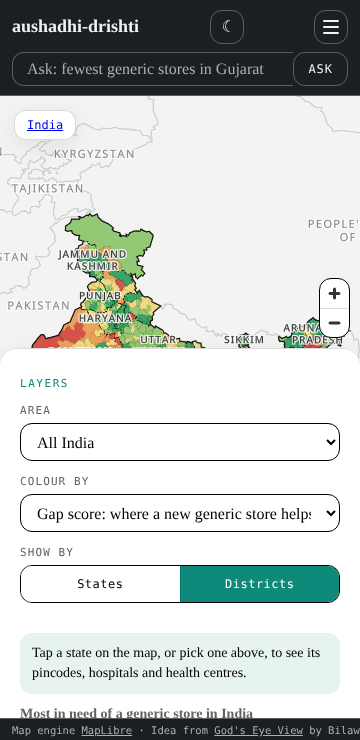
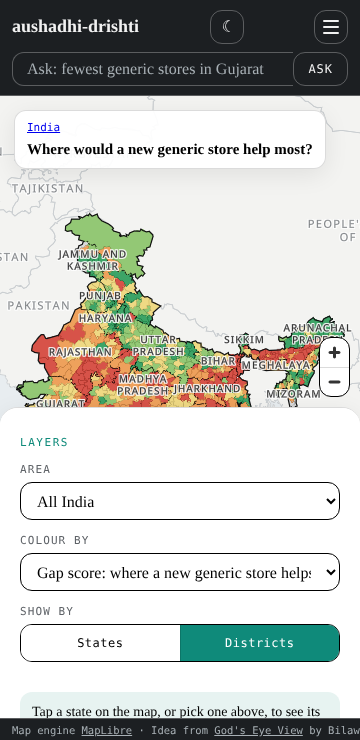
Version 0.9: news-style title card and sources, legend fixes, phone layout, plain guide to the code
Claude-Session: https://claude.ai/code/session_017Z6LKiBaxgz5KRqdbDSJ2V

diff --git a/drishti/src/layers/index.js b/drishti/src/layers/index.js
@@ -13,6 +13,7 @@ import { addCredit } from '../credits.js';
 import { districtDetail, pincodeDetail } from '../details.js';
 import { rankingHtml } from '../insights.js';
 import { setupMedicines } from '../medicine.js';
+import { aboutMetric } from '../metrics.js';
 import { resetView, fitTo } from '../map.js';
 
 const EMPTY = { jak: [], pharmacy: [], hospital: [], gov: [] };
@@ -22,7 +23,7 @@ export async function registerLayers(map, ui) {
   const meta = await loadJSON('meta.json');
   await addBasemap(map);
   const districts = await addDistricts(map, ui);
-  const pincodes = pincodeLayer(map);
+  const pincodes = pincodeLayer(map, ui);
   const states = await addStates(map, ui);
   let level = 'district'; // 'state', 'district' or 'pincode'
   const stateBySlug = new Map(meta.states.map((s) => [s.slug, s]));
@@ -79,11 +80,19 @@ export async function registerLayers(map, ui) {
   const metricSel = $('#metric');
   const statePick = $('#state-pick');
 
-  function crumbs(district) {
+  // The title card on the map: where you are, a plain headline, one line of context.
+  let openName = null;
+  function crumbs(district = openName) {
+    openName = district;
     const parts = [`<button type="button" data-go="india">India</button>`];
     if (current) parts.push(`<button type="button" data-go="state">${esc(current.name)}</button>`);
     if (district) parts.push(`<span>${esc(district)}</span>`);
-    ui.crumbs.innerHTML = parts.join('<i>/</i>');
+    const a = aboutMetric(level === 'pincode' ? 'outlets_per_10k' : metricSel.value);
+    const by = { state: 'By state', district: 'By district', pincode: 'By pincode' }[level];
+    const title = level === 'pincode' ? 'Where are the medicine outlets?' : a.title;
+    ui.crumbs.innerHTML = `<div class="path">${parts.join('<i>/</i>')}</div>
+      <h1>${esc(title)}</h1>
+      <p>${esc(by)}${current ? `, ${esc(current.name)}` : ', India'}. ${esc(level === 'pincode' ? 'Kendras plus mapped pharmacies' : a.sub)}</p>`;
   }
 
   function setLevel(l) {
@@ -95,6 +104,7 @@ export async function registerLayers(map, ui) {
     if (l === 'state') states.paint(metricSel.value);
     else districts.paint(metricSel.value);
     drawRanking();
+    crumbs();
   }
 
   function drawRanking() {
@@ -228,7 +238,11 @@ export async function registerLayers(map, ui) {
     if (go === 'state' && current) pickState(current.slug);
   });
   metricSel.value = districts.metric;
-  metricSel.addEventListener('change', () => (level === 'state' ? states.paint(metricSel.value) : districts.paint(metricSel.value)));
+  metricSel.addEventListener('change', () => {
+    if (level === 'state') states.paint(metricSel.value);
+    else districts.paint(metricSel.value);
+    crumbs();
+  });
   ui.layerList.querySelectorAll('button[data-level]').forEach((b) => b.addEventListener('click', () => setLevel(b.dataset.level)));
   statePick.addEventListener('change', () => pickState(statePick.value));
   ui.layerList.querySelectorAll('input[data-layer]').forEach((box) => {

diff --git a/drishti/src/layers/districts.js b/drishti/src/layers/districts.js
@@ -1,7 +1,7 @@
 // District shapes, coloured by the chosen measure. Tap or click a district
 // for details.
 import { loadJSON } from '../data.js';
-import { METRICS, metricById } from '../metrics.js';
+import { METRICS, metricById, aboutMetric } from '../metrics.js';
 import { esc } from '../ui.js';
 import { mapColors, onThemeChange } from '../theme.js';
 import { BEFORE } from './basemap.js';
@@ -44,6 +44,7 @@ export async function addDistricts(map, ui) {
   let current = 'gap_score';
   let focus = null;
   let selected = null;
+  let visible = true; // only the layer on screen draws the legend
 
   map.addLayer({ id: 'districts-fill', type: 'fill', source: 'districts', paint: { 'fill-color': fillColor(c.scale, c), 'fill-opacity': 0.92 } }, BEFORE);
   map.addLayer({ id: 'districts-line', type: 'line', source: 'districts', paint: { 'line-color': c.districtLine, 'line-width': ['interpolate', ['linear'], ['zoom'], 4, 0.3, 8, 1] } }, BEFORE);
@@ -72,7 +73,7 @@ export async function addDistricts(map, ui) {
       map.setFeatureState({ source: 'districts', id: p.lgd }, { cls: classOf(m.get(p), breaks), dim: !inView(p) });
     }
     map.setPaintProperty('districts-fill', 'fill-color', fillColor(pal, c));
-    drawLegend(ui.legend, m, vals, breaks, pal);
+    if (visible) drawLegend(ui.legend, { ...m, source: aboutMetric(m.id).source }, vals, breaks, pal);
   }
 
   // Hover outline (mouse only).
@@ -118,6 +119,7 @@ export async function addDistricts(map, ui) {
       if (lgd != null) map.setFeatureState({ source: 'districts', id: lgd }, { selected: true });
     },
     setVisible(on) {
+      visible = on;
       for (const id of ['districts-fill', 'districts-line']) map.setLayoutProperty(id, 'visibility', on ? 'visible' : 'none');
     },
   };
@@ -135,7 +137,7 @@ export function drawLegend(el, m, vals, breaks, pal) {
     <div class="ramp">${pal.map((col, i) => `<span style="background:${col}" title="${esc(m.fmt(edges[i]))} to ${esc(m.fmt(edges[i + 1]))}"></span>`).join('')}</div>
     <div class="ends"><span>${esc(m.fmt(edges[0]))}</span><span>${esc(m.fmt(edges[edges.length - 1]))}</span></div>
     <div class="key"><span><i style="background:${pal[m.worse === 'low' ? 4 : 0]}"></i>${esc(m.goodLabel || 'Well served')}</span><span><i style="background:${pal[m.worse === 'low' ? 0 : 4]}"></i>${esc(m.badLabel || 'Underserved')}</span><span><i class="nodata"></i>No data</span></div>
-    ${m.note ? `<div class="note">${esc(m.note)}</div>` : ''}`;
+    ${m.source ? `<div class="source">${esc(m.source)}</div>` : ''}`;
 }
 
 export function metricOptions() {

diff --git a/drishti/src/style.css b/drishti/src/style.css
@@ -194,7 +194,7 @@ body.panel-open .maplibregl-ctrl-bottom-right { right: calc(var(--panel-w) + 2 *
   .ask { order: 5; flex-basis: 100%; max-width: none; margin: 0; }
   .icon { margin-left: auto; }
   .panel {
-    top: auto; left: 0; right: 0; bottom: var(--foot); width: auto; height: 50vh;
+    top: auto; left: 0; right: 0; bottom: var(--foot); width: auto; height: 42vh;
     border: 0; border-top: 1px solid var(--rule); border-radius: 18px 18px 0 0; padding: 6px 20px 28px;
     transform: translateY(110%);
   }
@@ -202,7 +202,7 @@ body.panel-open .maplibregl-ctrl-bottom-right { right: calc(var(--panel-w) + 2 *
   .legend { width: 180px; bottom: 12px; padding: 6px 8px; }
   .legend .note { display: none; }
   body.panel-open .legend { display: none; }
-  body.panel-open .maplibregl-ctrl-bottom-right { right: 0; bottom: 50vh; }
+  body.panel-open .maplibregl-ctrl-bottom-right { right: 0; bottom: 42vh; }
 }
 
 /* Show by: States / Districts / Pincodes */
@@ -214,3 +214,15 @@ body.panel-open .maplibregl-ctrl-bottom-right { right: calc(var(--panel-w) + 2 *
 .seg button.on { background: var(--accent); color: #fff; }
 :root[data-theme='dark'] .seg button.on { color: #0e1316; }
 ol.results li::marker { color: var(--saffron); font-family: var(--mono); }
+
+/* Title card on the map, news-chart style: where you are, a plain headline, one line of context. */
+.crumbs { display: block; padding: 12px 16px 14px; max-width: min(440px, calc(100% - 28px)); }
+.crumbs .path { display: flex; align-items: center; gap: 6px; font: 11px var(--mono); color: var(--muted); }
+.crumbs h1 { margin: 6px 0 4px; font: 700 22px/1.2 var(--serif); color: var(--fg); }
+.crumbs p { margin: 0; font: 14px/1.35 var(--serif); color: var(--muted); }
+.legend .source { margin-top: 8px; font: 10px/1.4 var(--mono); color: var(--muted); }
+@media (max-width: 700px) {
+  .crumbs { padding: 10px 12px; }
+  .crumbs h1 { font-size: 15px; margin-bottom: 0; }
+  .crumbs p { display: none; }
+}

diff --git a/drishti/src/metrics.js b/drishti/src/metrics.js
@@ -39,3 +39,24 @@ export function addMetrics(list) {
 }
 
 export const metricById = (id) => METRICS.find((m) => m.id === id);
+
+// The headline and source line shown on the map for each measure
+// (short, plain, in the style of a news chart).
+const SRC_KENDRA = 'Sources: PIB (Kendras, 31 Dec 2025), Census 2011, NIC health centres';
+const ABOUT = {
+  gap_score: ['Where would a new generic store help most?', '0 = well served, 100 = most underserved', SRC_KENDRA],
+  gap_score_state: ['Where would a new generic store help most?', '0 = well served, 100 = most underserved, within the state', SRC_KENDRA],
+  people_per_kendra: ['How many people share one Jan Aushadhi Kendra?', 'People (2011) for every Kendra', 'Sources: PIB, Census 2011'],
+  kendras_per_lakh: ['Jan Aushadhi Kendras for every 1 lakh people', 'Official count, 31 Dec 2025', 'Sources: PIB, Census 2011'],
+  outlets_per_10k: ['Medicine outlets for every 10,000 people', 'Kendras plus pharmacies mapped in OpenStreetMap (a floor)', 'Sources: PIB, OpenStreetMap, Census 2011'],
+  centres_per_kendra: ['Government health centres for every Kendra', 'More centres per Kendra: more prescriptions with nowhere to fill them', 'Sources: NIC HealthGIS, PIB'],
+  pop2011: ['How many people live here?', 'Census 2011', 'Source: Census of India 2011'],
+  jak_official: ['Jan Aushadhi Kendras', 'Official count, 31 Dec 2025', 'Source: PIB (Rajya Sabha answer)'],
+  osm_pharmacy: ['Pharmacies mapped in OpenStreetMap', 'Volunteer mapped, so a floor, not a full count', 'Source: OpenStreetMap contributors'],
+  gov_centres: ['Government health centres', 'Primary and community health centres and government hospitals', 'Source: NIC HealthGIS'],
+};
+
+export function aboutMetric(id) {
+  const [title, sub, source] = ABOUT[id] || [metricById(id)?.label || id, '', ''];
+  return { title, sub, source };
+}

diff --git a/drishti/src/layers/pincodes.js b/drishti/src/layers/pincodes.js
@@ -1,12 +1,12 @@
 // Pincode areas, one state at a time (all of India has about 19,000).
 // Coloured by how many public outlets (Kendras plus OSM pharmacies) each has.
 import { loadJSON } from '../data.js';
-import { classBreaks, classOf } from './districts.js';
+import { classBreaks, classOf, drawLegend } from './districts.js';
 import { mapColors, onThemeChange } from '../theme.js';
 
 const EMPTY = { type: 'FeatureCollection', features: [] };
 
-export function pincodeLayer(map) {
+export function pincodeLayer(map, ui) {
   let slug = null;
   let shown = false;
   let loaded = null;
@@ -38,13 +38,30 @@ export function pincodeLayer(map) {
       map.setFeatureState({ source: 'pincodes', id: p.pincode }, { cls: v > 0 ? Math.min(classOf(v, breaks), 3) : -1 });
     }
     loaded = slug;
+    lastValues = fc.features.map((f) => value(f.properties));
+    lastBreaks = breaks;
+  }
+
+  // When pincodes are on screen, the legend explains their colours.
+  let lastValues = [];
+  let lastBreaks = [];
+  function legend() {
+    const r = [...c.scale].reverse().slice(1);
+    drawLegend(ui.legend, {
+      label: 'Public outlets per pincode', worse: 'low', fmt: (v) => String(Math.round(v)),
+      goodLabel: 'More outlets', badLabel: 'Fewer outlets',
+      source: 'Kendras plus OpenStreetMap pharmacies. Grey: none on record',
+    }, lastValues.filter((v) => v > 0), lastBreaks.slice(0, 3), r);
   }
 
   return {
     byPin,
     async setVisible(on) {
       shown = on;
-      if (on) await load();
+      if (on) {
+        await load();
+        legend();
+      }
       for (const id of ['pincodes-fill', 'pincodes-line']) map.setLayoutProperty(id, 'visibility', on ? 'visible' : 'none');
     },
     async setState(newSlug) {

diff --git a/drishti/src/layers/states.js b/drishti/src/layers/states.js
@@ -1,7 +1,7 @@
 // States and UTs as one shape each, coloured by the same measures as districts
 // (numbers added up from the districts, and a gap score among states).
 import { loadJSON } from '../data.js';
-import { metricById } from '../metrics.js';
+import { metricById, aboutMetric } from '../metrics.js';
 import { mapColors, onThemeChange } from '../theme.js';
 import { classBreaks, classOf, fillColor, drawLegend } from './districts.js';
 
@@ -21,7 +21,7 @@ export async function addStates(map, ui) {
     const pal = m.worse === 'low' ? [...c.scale].reverse() : c.scale;
     for (const [slug, p] of bySlug) map.setFeatureState({ source: 'states', id: ids.get(slug) }, { cls: classOf(m.get(p), breaks) });
     map.setPaintProperty('states-fill', 'fill-color', fillColor(pal, c));
-    drawLegend(ui.legend, { ...m, note: m.id === 'gap_score' ? 'Compared with all states and UTs.' : m.note }, vals, breaks, pal);
+    drawLegend(ui.legend, { ...m, source: aboutMetric(m.id).source }, vals, breaks, pal);
   }
   onThemeChange(() => {
     c = mapColors();

diff --git a/drishti/src/map.js b/drishti/src/map.js
@@ -45,7 +45,7 @@ export function framePadding() {
   const panel = document.getElementById('panel');
   const open = panel?.classList.contains('open');
   if (window.innerWidth <= 700) {
-    return { top: 56, left: 16, right: 16, bottom: open ? Math.round(window.innerHeight * 0.5) + 16 : 40 };
+    return { top: 56, left: 16, right: 16, bottom: open ? Math.round(window.innerHeight * 0.42) + 16 : 40 };
   }
   return { top: 64, left: 40, bottom: 48, right: open ? (panel.offsetWidth || 380) + 56 : 40 };
 }

diff --git a/drishti/src/cesiumBase.js b/drishti/src/cesiumBase.js
@@ -1,2 +1,3 @@
+// NOT USED since version 0.8 (the map moved from CesiumJS to MapLibre). Kept so nothing is deleted.
 // Tells Cesium where its workers and images live. Must load before 'cesium'.
 window.CESIUM_BASE_URL = `${import.meta.env.BASE_URL}cesium/`;

diff --git a/drishti/docs/HOW_THE_CODE_WORKS.md b/drishti/docs/HOW_THE_CODE_WORKS.md
@@ -1,0 +1,54 @@
+# How the code works
+
+A short tour, in plain words. Two halves: a **data build** (Python) that makes small files, and a **web page** (JavaScript) that draws them.
+
+## 1. The data build (`pipeline/`)
+
+Run `python3 pipeline/build.py`. It does this, top to bottom:
+
+1. **Download** the open files (district shapes, 2011 population, pincodes, health centres) into `pipeline/.cache/`. See `fetch.py`: it names the project in every request and checks each site's robots.txt rules.
+2. **Districts** (`geo.py`): reads every district of India. Nine Rajasthan districts merged back in 2024 are folded into their parents (`seeds/district_merges.csv`).
+3. **Population** (`sources/population.py`): places each 2011 sub-district inside today's district by its shape.
+4. **Jan Aushadhi Kendras** (`sources/jak.py`): reads the official count table (`seeds/jak_district_counts.csv`) and matches names to districts. Spellings that differ are listed in `seeds/district_aliases.csv`.
+5. **Health centres** (`sources/health.py`) and **OpenStreetMap** pharmacies and hospitals (`sources/osm.py`): each dot is placed in its district and pincode by position. Pharmacy names are never kept.
+6. **Gap score** (`insights.py`): turns each measure into a rank from 0 to 100 and mixes them (explained in `docs/gap-score.md`).
+7. **Medicines** (`medicines.py`): CDSCO alert counts, NPPA prices, and the brand list from anukalpa.
+8. **Write** small files to `public/data/`: `districts.geojson`, `states.geojson`, one folder per state (`states/<state>/points.json`, `pincodes.geojson`), and `meta.json` (which sources worked).
+
+The background map of India (`public/basemap/`) is made once by `pipeline/basemap.py` from the Survey of India outline.
+
+## 2. The web page (`index.html` and `src/`)
+
+| File | What it does |
+|---|---|
+| `src/main.js` | Starts everything: theme, panel, map, layers, ask box |
+| `src/map.js` | Creates the flat map (MapLibre), sets zoom limits and gestures, fits views |
+| `src/theme.js` | Light and dark mode, and every map colour for each |
+| `src/ui.js` | Opens and closes the panel; shows details and answers |
+| `src/layers/basemap.js` | Draws India, state lines, neighbours and place names |
+| `src/layers/states.js` | State shapes and their colours |
+| `src/layers/districts.js` | District shapes, their colours, and the legend |
+| `src/layers/pincodes.js` | Pincode shapes, one state at a time |
+| `src/layers/points.js` | Dots: health centres, hospitals, pharmacies |
+| `src/layers/index.js` | Wires it together: the panel, picking a state, taps on the map, the title card |
+| `src/metrics.js`, `src/insights.js` | The list of measures you can colour by, with their headline and source |
+| `src/details.js` | The table shown when you open a district or pincode |
+| `src/medicine.js` | The medicine check and the drug alert layer |
+| `src/ask.js`, `src/askRules.js` | The "Ask" box: plain questions answered by simple rules |
+| `src/style.css` | All the looks |
+
+Not used any more (kept so nothing is deleted): `src/cesiumBase.js`, `scripts/copy-cesium.mjs`.
+
+## 3. Colours
+
+Green means well served, red means underserved, grey means no data. Classes are fifths: each colour holds about the same number of areas (`classBreaks` in `layers/districts.js`).
+
+## 4. Tests (`tests/`)
+
+- `test_pipeline.py`: the data build, offline, including a check that India's outline is the official one.
+- `ask.test.mjs`: the Ask rules.
+- `browser_check.py` and `phase_checks.py`: open the page at phone and laptop size, click through, and fail on any error.
+
+## 5. Publishing
+
+`.github/workflows/drishti-pages.yml` runs the tests, builds the data and the page, and publishes to GitHub Pages on every push and every Monday.

diff --git a/drishti/ADDED_FILES.md b/drishti/ADDED_FILES.md
@@ -67,3 +67,7 @@ Nothing from God's Eye View has been deleted. Everything new is listed here, by 
 
 ## Phase 8 views
 - Added `drishti/src/layers/states.js`; changed `pipeline/build.py` (writes `states.geojson`), `index.html`, `src/style.css`, `src/ui.js`, `src/metrics.js`, `src/layers/index.js`, `layers/districts.js`, `tests/phase_checks.py`, `CHANGELOG.md`
+
+## Version 0.9
+- Merged upstream God's Eye View (57 commits, outside `drishti/`; root README kept with our header)
+- Added `drishti/docs/HOW_THE_CODE_WORKS.md`; changed `src/metrics.js`, `src/layers/index.js`, `layers/districts.js`, `layers/states.js`, `layers/pincodes.js`, `src/style.css`, `src/map.js`, `CHANGELOG.md`; marked `src/cesiumBase.js` and `scripts/copy-cesium.mjs` as not used

diff --git a/drishti/CHANGELOG.md b/drishti/CHANGELOG.md
@@ -1,5 +1,12 @@
 # Changelog
 
+## 0.9.0
+- Title card on the map, in the style of a news chart: where you are, a plain headline, one line of context. Each legend ends with its source.
+- Fixed: the legend could show district colours while states or pincodes were on screen. Pincodes now have their own legend.
+- Phones: smaller title card and bottom sheet, so more of the map shows.
+- New `docs/HOW_THE_CODE_WORKS.md`: a plain tour of the code.
+- Synced with 57 new God's Eye View commits from upstream (outside `drishti/`).
+
 ## 0.8.2
 - Show by States, Districts or Pincodes. States get the same measures added up from their districts and a gap score among states.
 - Menu button (three lines) instead of the word Panel; the panel is open by default.

diff --git a/drishti/README.md b/drishti/README.md
@@ -64,7 +64,7 @@ drishti/
     seeds/              small hand-checked tables (with their sources)
   scripts/              small helper scripts for the build
   tests/                offline data tests and the headless browser check
-  docs/                 research report, gap score, stock-sharing design, known gaps,
+  docs/                 how the code works, research report, gap score, stock-sharing design, known gaps,
                         permission request drafts, screenshots
   DATA_SOURCES.md       every data source, licence and fetch method
   ADDED_FILES.md        every file added or changed in this fork
